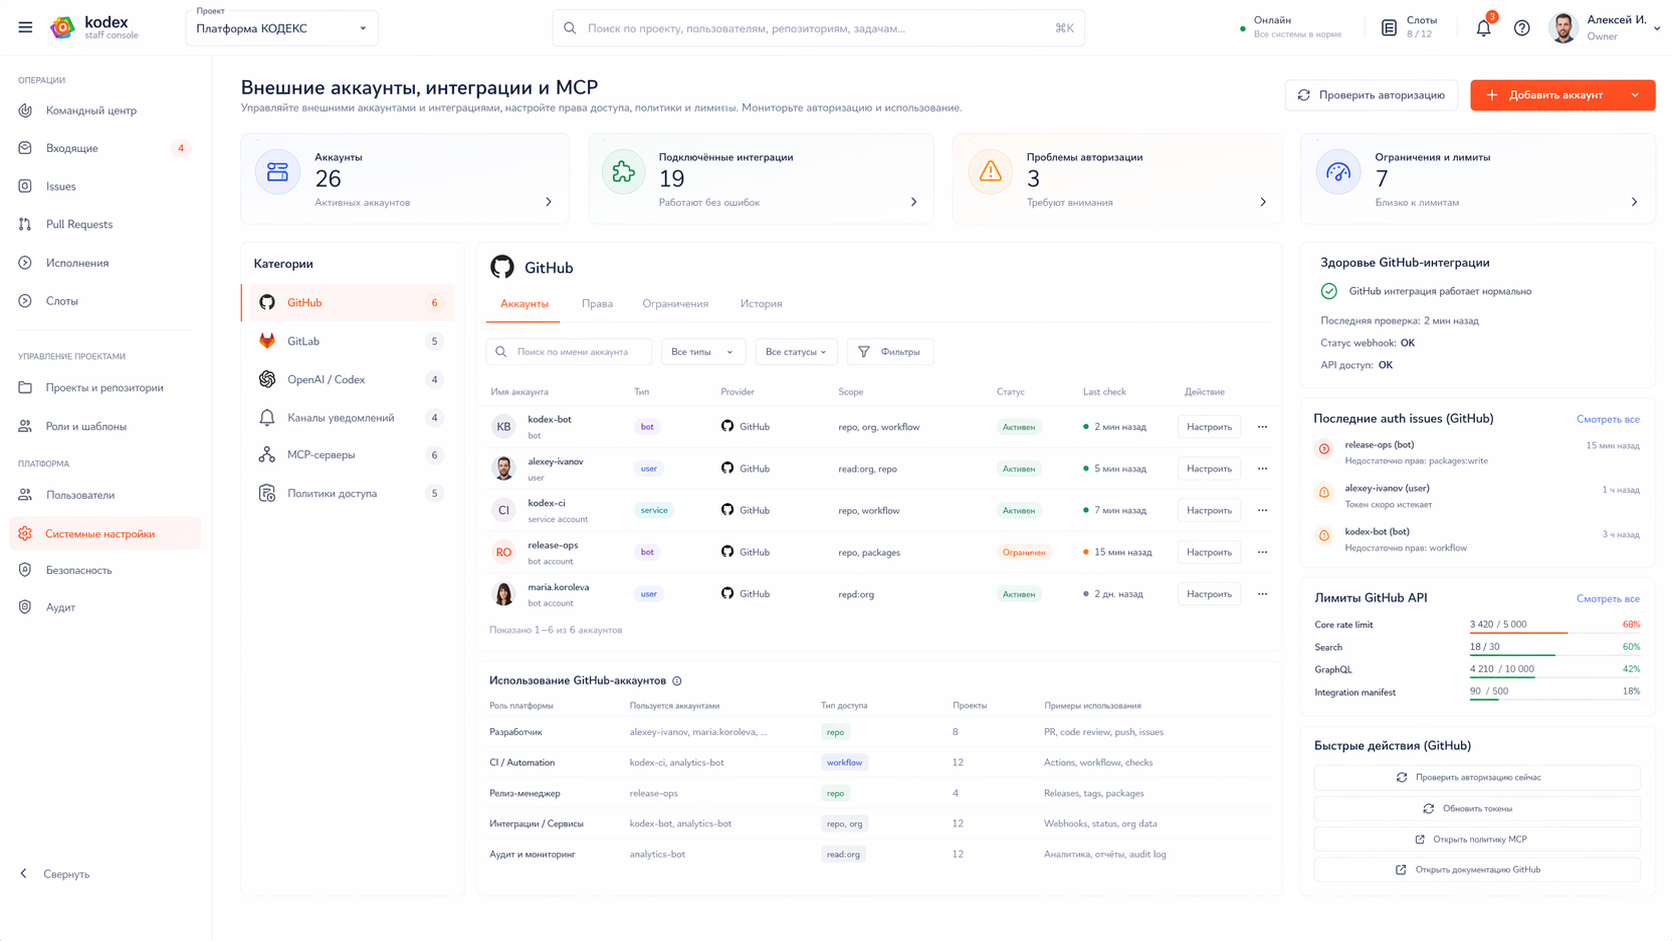
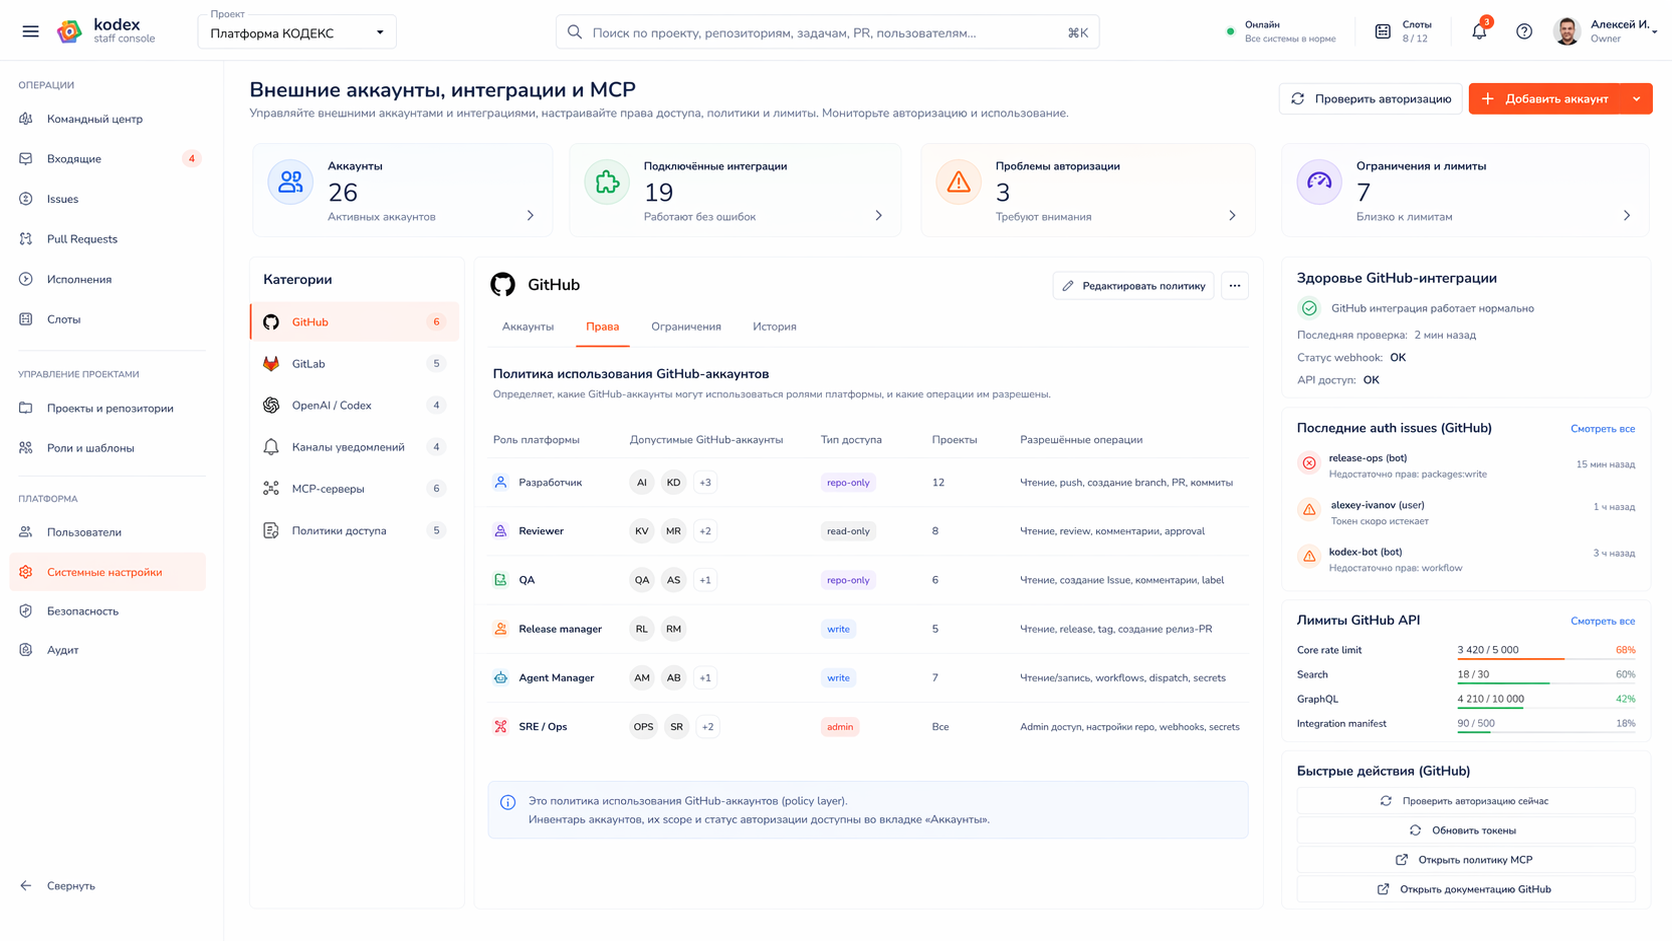
Clarify wave five tab model

diff --git a/refactoring/19-flow-role-prompt-and-settings-ux.md b/refactoring/19-flow-role-prompt-and-settings-ux.md
@@ -107,6 +107,14 @@ Flow платформы — это не произвольный граф чег
 - внешние аккаунты;
 - участие в flow.
 
+Канонические вкладки каталога ролей:
+- `Профиль` — назначение, runtime и общая policy роли;
+- `Шаблоны` — `work` и `revise`, файлы и версии;
+- `Инструменты (MCP)` — допустимые инструменты и ограничения;
+- `Аккаунты` — provider account policy;
+- `Использование` — flows, проекты и репозитории;
+- `История версий` — изменения профиля и шаблонов.
+
 ### 3.2. Пользовательские роли
 Пользователь должен иметь возможность:
 - создать новую роль;
@@ -178,8 +186,16 @@ UI должен:
 
 Это означает:
 - список аккаунтов, лимиты и auth issues относятся именно к GitHub;
-- блок использования аккаунтов должен объяснять, как GitHub-аккаунты привязаны к ролям и проектам;
+- policy layer должен объяснять, как GitHub-аккаунты привязаны к ролям и проектам;
 - общий экран MCP-серверов не должен смешиваться с provider-экраном и показывается в собственной категории.
+
+Канонические вкладки provider-экрана:
+- `Аккаунты` — inventory аккаунтов, их scopes, статусы и auth state;
+- `Права` — policy layer: какие роли и проекты могут использовать какие provider-аккаунты и для каких операций;
+- `Ограничения` — rate limits, auth restrictions, quotas и правила деградации;
+- `История` — token rotation, auth failures, policy updates и другие значимые изменения.
+
+Если активна вкладка `Права`, экран не должен одновременно показывать inventory-секции вкладки `Аккаунты`.
 
 ### 5.2. Права MCP и внешних операций
 Для роли и flow должно быть видно не только "какой prompt запустится", но и:
@@ -217,6 +233,15 @@ UI должен проектироваться вокруг расширяемо
 - показать diff и затронутые сущности;
 - создать `PR`;
 - после merge обновить активную конфигурацию.
+
+### 6.3. Вкладки экрана пользователей и доступов
+Экран пользователей и доступов использует вкладки внутри выбранного пользователя:
+- `Проекты` — membership по проектам;
+- `Репозитории` — доступ к отдельным репозиториям;
+- `Доступы` — глобальная роль и ограничения;
+- `История` — последние изменения прав и запросов доступа.
+
+Эти вкладки не должны смешиваться с общей таблицей пользователей: таблица остаётся inventory-слоем, а правая панель раскрывает выбранного пользователя.
 
 ## 7. Связь с рабочими поверхностями
 Настроечный контур не должен быть изолированным "бэк-офисом".
@@ -266,6 +291,8 @@ UI должен проектироваться вокруг расширяемо
 - использование provider-аккаунтов ролями и проектами;
 - переход к отдельной категории MCP-серверов без смешения контекста;
 - быстрые действия по проверке авторизации и открытию MCP-политик.
+
+Для утверждённой модели этого экрана каноническим считается режим, где при выборе категории `GitHub` активная вкладка `Права` показывает именно policy layer, а inventory аккаунтов остаётся во вкладке `Аккаунты`.
 
 ![Текущий макет внешних аккаунтов, интеграций и MCP](images/wave5/09-integrations-and-accounts/screen.png)
 

diff --git a/refactoring/images/wave5/09-integrations-and-accounts/screen.md b/refactoring/images/wave5/09-integrations-and-accounts/screen.md
@@ -1,9 +1,9 @@
 # Внешние аккаунты, интеграции и MCP
 
-Статус: `approved`
+Статус: `reviewing`
 
 ## Назначение
-Экран настройки внешних аккаунтов, provider-интеграций, лимитов и проблем авторизации с переходом к отдельной категории MCP.
+Экран настройки внешних аккаунтов, provider-интеграций, лимитов и проблем авторизации с отдельной категорией MCP и явной моделью вкладок внутри выбранного provider.
 
 ## Главные сущности
 - внешний аккаунт
@@ -17,15 +17,21 @@
 ## Основные блоки
 - верхняя лента summary-card по аккаунтам, интеграциям, проблемам авторизации и лимитам
 - список категорий интеграций
-- центральная таблица аккаунтов выбранного provider
-- блок использования GitHub-аккаунтов ролями и проектами
+- центральная вкладочная поверхность выбранного provider
 - правая панель здоровья GitHub-интеграции, последних auth issues и лимитов
+
+## Семантика вкладок
+- `Аккаунты` — inventory GitHub-аккаунтов, scopes, статусы и auth state;
+- `Права` — policy layer: какие роли и проекты используют какие GitHub-аккаунты и для каких операций;
+- `Ограничения` — rate limits, quotas, restrictions и деградация;
+- `История` — auth failures, token rotation и изменения policy.
 
 ## Ключевые действия
 - добавить аккаунт
 - проверить авторизацию
 - открыть политику MCP
-- настроить аккаунт
+- настроить аккаунт во вкладке `Аккаунты`
+- отредактировать policy layer во вкладке `Права`
 - перейти к политике MCP или отдельной категории MCP-серверов
 - посмотреть ограничения и квоты
 

diff --git a/refactoring/17-console-and-ux-model.md b/refactoring/17-console-and-ux-model.md
@@ -172,6 +172,21 @@ GitHub/GitLab остаются местом, где:
 - badge-действие запуска или продолжения работы с иконкой запуска;
 - badge-действие подтверждения или ответа, если оно не требует полного перехода в отдельный экран.
 
+### 4.7. Каноническая модель вкладок
+Вкладки используются как второй уровень навигации внутри уже выбранной сущности или категории, а не как способ смешивать несколько контекстов на одном полотне.
+
+Канонические правила:
+- вкладки переключают только центральную рабочую поверхность;
+- выбранная сущность, категория и правая панель контекста остаются стабильными;
+- контент одной вкладки не должен визуально смешиваться с контентом другой;
+- названия вкладок должны описывать устойчивые срезы данных (`Аккаунты`, `Права`, `Ограничения`, `История`), а не действия;
+- на одном уровне допустимо держать 3-6 вкладок, иначе экран должен распадаться на отдельные страницы;
+- активная вкладка должна быть понятна по самому содержимому экрана, а не только по подсветке label.
+
+Для wave 5 это означает:
+- рабочие поверхности `Issue` и `PR/MR` используют вкладки для артефактов, проверок, связей и истории;
+- настроечные экраны используют вкладки для inventory, policy, limits, usage и history внутри одной сущности.
+
 ## 5. Командный центр как домашний экран
 Командный центр — это главный домашний экран платформы.
 

diff --git a/refactoring/18-workspaces-onboarding-and-operator-surfaces.md b/refactoring/18-workspaces-onboarding-and-operator-surfaces.md
@@ -67,6 +67,11 @@ approvals:
 - `Связи` — relationships между `Issue`, `PR/MR`, `run`, `job`, slot и release-контекстом;
 - `Журнал активности` — единая лента событий по задаче, агентам, provider-комментариям, `run`, `job` и ручным решениям.
 
+Правило для вкладок рабочего пространства:
+- на экране одновременно показывается содержимое только одной нижней вкладки;
+- summary, conversation и верхние контекстные блоки остаются общими;
+- вкладки не должны дублировать одно и то же содержимое разными словами.
+
 ### 1.3. Что нельзя тащить в рабочее пространство `Issue`
 Нельзя превращать рабочее пространство задачи:
 - в полную копию diff review;
@@ -126,6 +131,10 @@ approvals:
 - порядок сообщений строго хронологический;
 - роли и авторы визуально не путаются между собой;
 - status chips размещаются внутри конкретной карточки сообщения, review summary или Human gate.
+
+Нижние вкладки `PR/MR` подчиняются той же модели:
+- каждая вкладка показывает отдельный устойчивый срез;
+- экран не должен одновременно показывать сводку одной вкладки и детальный контент другой.
 
 ## 3. Командный центр
 

diff --git a/refactoring/images/wave5/02-issue-workspace/screen.md b/refactoring/images/wave5/02-issue-workspace/screen.md
@@ -21,6 +21,13 @@
 - блоки `run`, `job`, slot и рисков
 - нижние вкладки: `Артефакты`, `Проверки`, `История переходов`, `Связи`, `Журнал активности`
 
+## Семантика вкладок
+- `Артефакты` — связанные `Issue`, `PR/MR`, approvals и evidence;
+- `Проверки` — acceptance state, review-роли и Human gate;
+- `История переходов` — движение по этапам flow;
+- `Связи` — relationships между `Issue`, `PR/MR`, `run`, `job`, slot;
+- `Журнал активности` — единая timeline событий.
+
 ## Ключевые действия
 - дать ответ agent-manager
 - открыть связанный `Issue` или `PR/MR` из сообщения через badge-кнопку

diff --git a/refactoring/images/wave5/04-role-catalog/screen.md b/refactoring/images/wave5/04-role-catalog/screen.md
@@ -20,6 +20,14 @@
 - блок зависимостей по flow и репозиториям
 - блок публикации изменений через `PR`
 
+## Семантика вкладок
+- `Профиль` — назначение, runtime и общая policy роли;
+- `Шаблоны` — `work` и `revise`, файлы и версии;
+- `Инструменты (MCP)` — допустимые инструменты и ограничения;
+- `Аккаунты` — provider account policy;
+- `Использование` — flows, проекты и репозитории;
+- `История версий` — изменения профиля и шаблонов.
+
 ## Ключевые действия
 - создать пользовательскую роль
 - открыть и изменить шаблон

diff --git a/refactoring/images/wave5/05-pr-workspace/screen.md b/refactoring/images/wave5/05-pr-workspace/screen.md
@@ -22,6 +22,12 @@
 - правая колонка `Acceptance и риск`, `Исполнения`, `Платформенные jobs`, `Release context`
 - нижние вкладки `Проверки`, `Acceptance`, `Связи`, `Журнал активности`
 
+## Семантика вкладок
+- `Проверки` — checks, approvals и итог review;
+- `Acceptance` — Human gate, risk class и решение о переходе дальше;
+- `Связи` — связанные `Issue`, `run`, `job`, release context;
+- `Журнал активности` — timeline событий по `PR/MR` и платформе.
+
 ## Ключевые действия
 - открыть `PR/MR` в GitHub/GitLab
 - открыть связанный `Issue`

diff --git a/refactoring/images/wave5/10-users-and-access/screen.md b/refactoring/images/wave5/10-users-and-access/screen.md
@@ -21,6 +21,12 @@
 - блок ожидающих подтверждений
 - пояснение по GitHub OAuth и allowlist email
 
+## Семантика вкладок
+- `Проекты` — membership по проектам;
+- `Репозитории` — доступ к отдельным репозиториям;
+- `Доступы` — глобальная роль и ограничения;
+- `История` — последние изменения доступа и запросов.
+
 ## Ключевые действия
 - пригласить пользователя
 - назначить доступ

diff --git a/refactoring/images/wave5/index.md b/refactoring/images/wave5/index.md
@@ -1,6 +1,6 @@
 # Пакет макетов wave 5
 
-Статус: `approved`
+Статус: `in-progress`
 
 Назначение пакета:
 - визуально уточнять wave 5 до начала реализации frontend;
@@ -50,7 +50,7 @@
    - файлы: `screen.png`, `screen.md`
 
 9. `09-integrations-and-accounts`
-   - статус: `approved`
+   - статус: `reviewing`
    - экран: внешние аккаунты, интеграции и MCP
    - файлы: `screen.png`, `screen.md`
 
